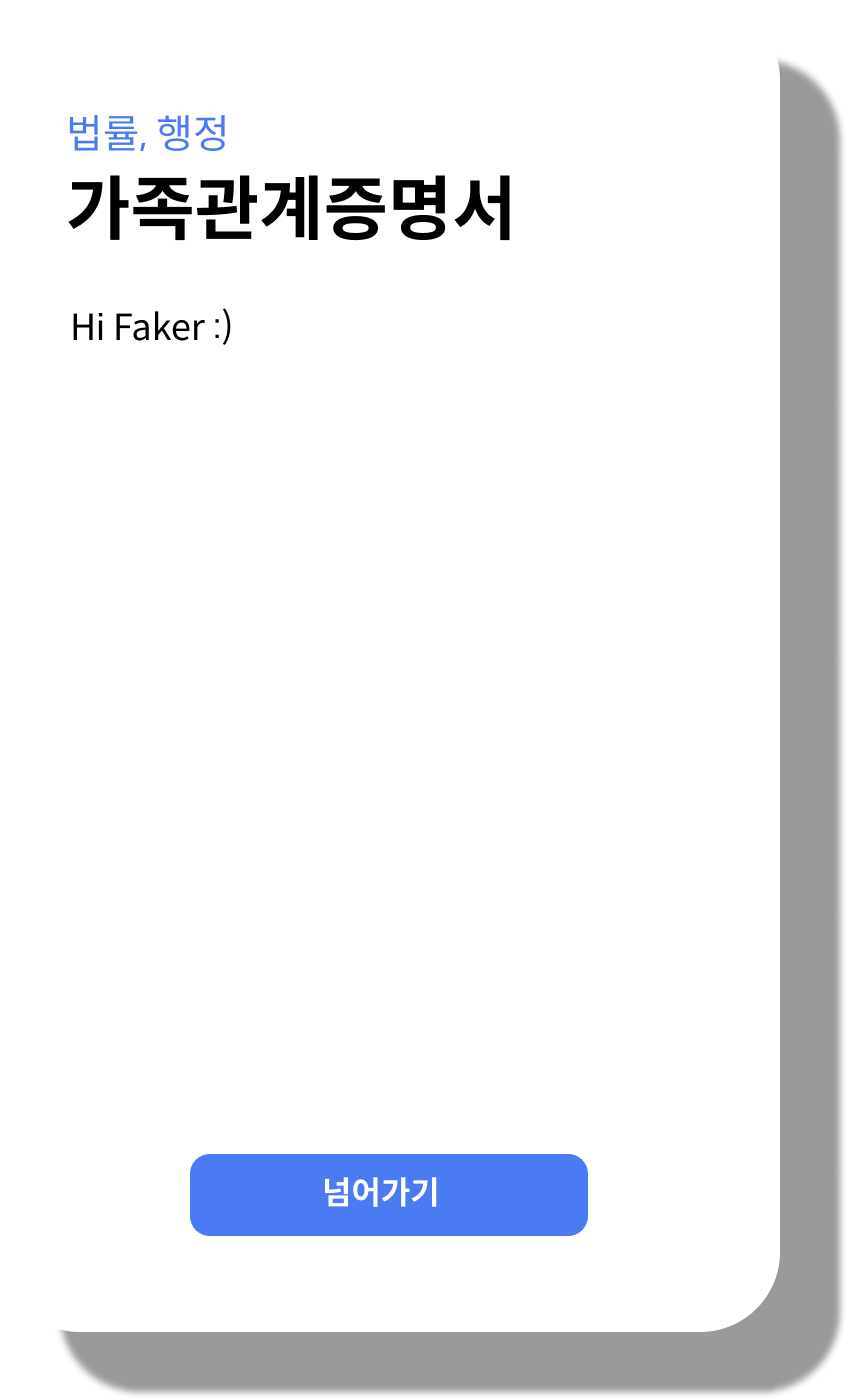
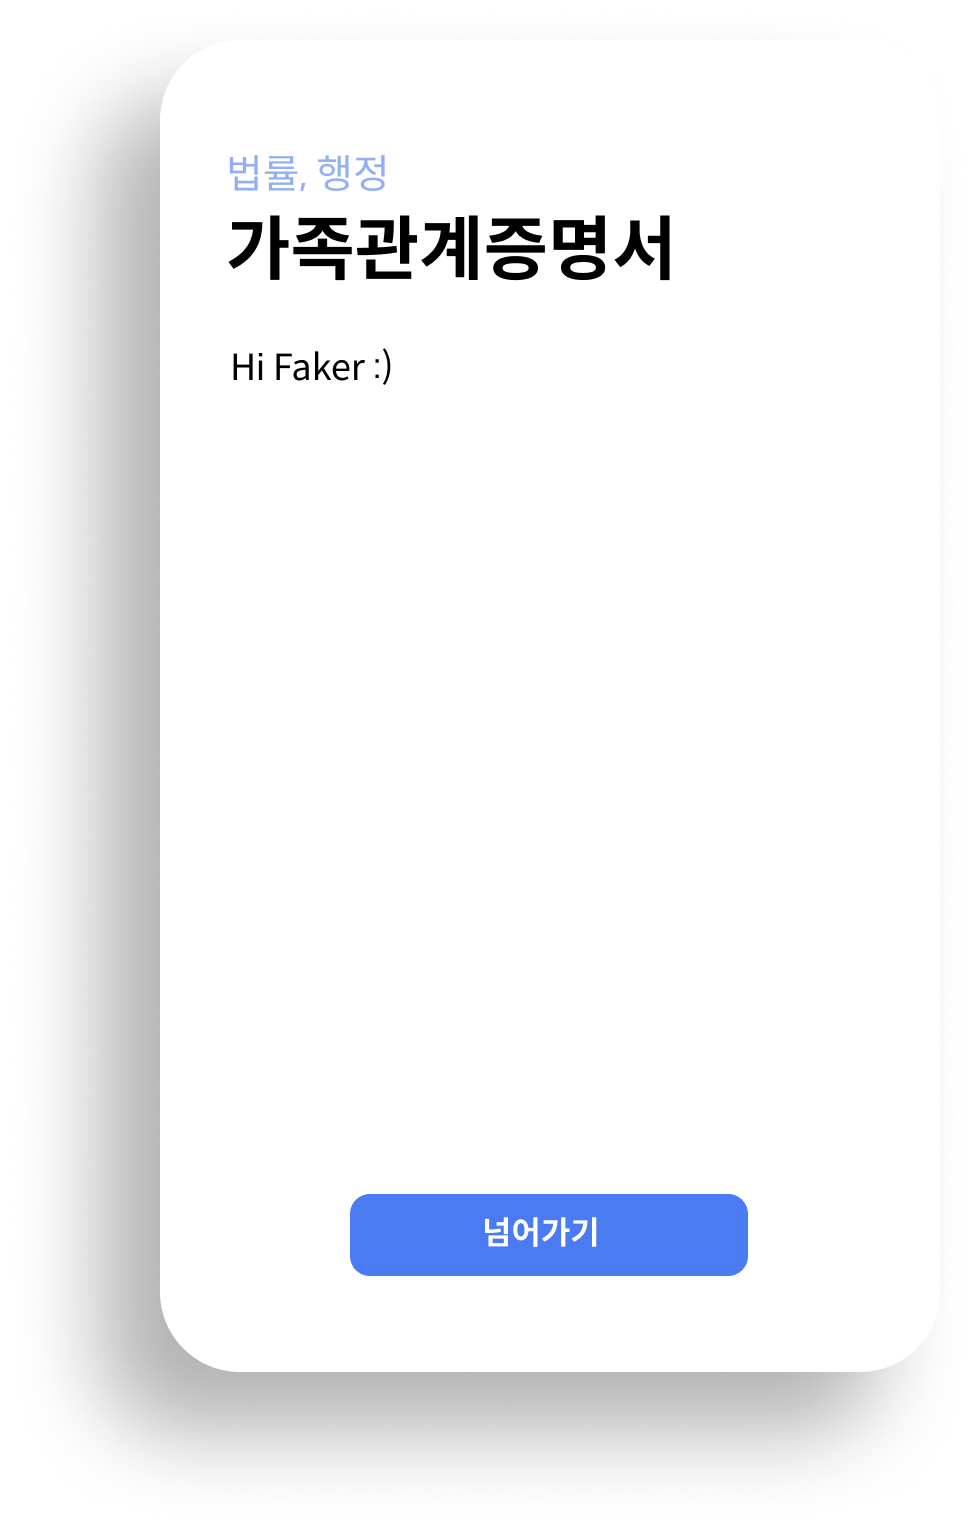
MainHomeDesktop design fix

Changed region(s): [[0.0613, 0.0307, 1.0, 1.0]]

diff --git a/src/Pages/MainHome/MainHomeDesktop.vue b/src/Pages/MainHome/MainHomeDesktop.vue
@@ -1,20 +1,21 @@
 <template>
-  <v-container style="max-width: 2000px">
+  <v-img :src="Banner1Background" cover width="100vw" height="100vh" style="display: flex; align-items: center">
+    <v-container style="max-width: 2000px">
     <v-row justify="space-around">
       <v-scroll-x-transition>
         <div v-show="Transition1">
           <div style="margin-left: 90px">
             <v-row>
-              <text style="font-weight: bold; color: #FFFFFF; font-size: 40px; text-shadow: 0px 0px 1px 1px #000000">서비스를 선택해보세요.</text>
+              <text style="font-family: SpoqaHanSansNeo-thin; color: #2155D6; font-size: 55px">원하는 민원문서,</text>
             </v-row>
-            <v-row>
-              <text style="font-weight: lighter; color: #FFFFFF; font-size: 70px">원하는 민원문서,</text>
-            </v-row>
-            <v-row>
-              <text style="font-weight: lighter; color: #FFFFFF; font-size: 70px">한 곳에서 출력방법을 찾아보세요!</text>
+            <v-row style="margin-top: 0px">
+              <text style="font-family: SpoqaHanSansNeo-bold; color: #000000; font-size: 65px">한 곳에서 출력방법을 찾아보세요!</text>
             </v-row>
           </div>
-          <div style="margin-top: 100px; margin-left: 70px">
+          <div style="margin-top: 120px; margin-left: 70px">
+            <v-row>
+              <text style="font-family: SpoqaHanSansNeo-bold; color: #525252; font-size: 20px; margin-left: 20px; margin-bottom: 20px; text-shadow: 0px 0px 1px 1px #000000">서비스를 선택해보세요.</text>
+            </v-row>
             <v-row justify="start">
               <v-hover v-slot="{isHovering, props}">
                 <v-card v-bind="props" elevation="0" :style="CardStyle(isHovering)" @click="GotoAllDocuments()">
@@ -96,11 +97,12 @@
       </v-scroll-x-transition>
       <v-scroll-x-reverse-transition>
         <div v-show="Transition1" style="display: flex; align-items: center">
-          <v-img :src="DesktopBanner1" style="width: 300px; margin-right: 90px"/>
+          <v-img :src="DesktopBanner1" style="width: 320px; margin-right: 90px"/>
         </div>
       </v-scroll-x-reverse-transition>
     </v-row>
   </v-container>
+  </v-img>
 </template>
 
 <script>
@@ -111,6 +113,7 @@ export default {
   data(){
     return {
       DesktopBanner1: new URL('../../assets/DesktopBanner1.png', import.meta.url).href,
+      Banner1Background: new URL('../../assets/Banner1Background.png', import.meta.url).href,
       Transition1: false,
       Title:
           ['법률, 행정',
@@ -135,15 +138,15 @@ export default {
         display: "flex",
         width: "180px",
         height: "100px",
-        borderRadius: "15px",
+        borderRadius: "20px",
         backgroundColor: "#FFFFFF",
-        marginLeft: "20px"
+        marginLeft: "20px",
       }
     },
     CardTitleStyle(isHovering) {
       return {
         transition: "all .1s ease-in-out",
-        fontWeight: "bold",
+        fontFamily: "SpoqaHanSansNeo-bold",
         fontSize: "20px",
         margin: "auto",
         color: isHovering ? "#00A4FF" : "#2155D6",
@@ -151,7 +154,7 @@ export default {
     },
     CardSubtitleStyle() {
       return {
-        fontWeight: "normal",
+        fontFamily: "SpoqaHanSansNeo-light",
         fontSize: "10px",
         color: "#808080",
         margin: "auto",
@@ -166,10 +169,3 @@ export default {
   }
 }
 </script>
-
-<style>
-@font-face {
-  font-family: 'SpoqaHanSansNeo-Regular';
-  src: url('https://fastly.jsdelivr.net/gh/projectnoonnu/noonfonts_2108@1.1/SpoqaHanSansNeo-Regular.woff') format('woff');
-}
-</style>

diff --git a/src/components/MainHomeHeader/MainHomeHeader1400px.vue b/src/components/MainHomeHeader/MainHomeHeader1400px.vue
@@ -1,11 +1,11 @@
 <template>
-  <v-app-bar elevation="0" style="position: fixed; padding: calc(env(safe-area-inset-top) + 10px); background-color: #FFFFFF; display: flex; justify-content: center">
+  <v-app-bar elevation="0" style="position: fixed; padding: calc(env(safe-area-inset-top) + 10px); background-color: #FFFFFF; display: flex; justify-content: center; border-bottom: 1px solid #EBEDF1">
     <v-toolbar elevation="0" style="max-width: 2000px; margin: auto; background-color: transparent">
       <text>
         <v-img :src="BarLogo" style="width: 130px; margin-left: 40px"/>
       </text>
       <div style="width: 400px">
-        <v-text-field class="MainSearch1400" placeholder="원하는 서류를 검색해보세요" prepend-inner-icon="mdi-magnify" variant="outlined" bg-color="#F8FAFF" base-color="#F8FAFF" hide-details density="comfortable" clearable rounded style="margin-left: 40px"/>
+        <v-text-field class="MainSearch1400" placeholder="원하는 서류를 검색해보세요" prepend-inner-icon="mdi-magnify" variant="outlined" bg-color="#F8FAFF" base-color="#F8FAFF" hide-details density="comfortable" clearable rounded style="font-family: SpoqaHanSansNeo-Regular; margin-left: 40px"/>
       </div>
     </v-toolbar>
   </v-app-bar>

diff --git a/src/Pages/MainHome/MainHome.vue b/src/Pages/MainHome/MainHome.vue
@@ -13,7 +13,7 @@
     <MainHomeHeader1400px/>
     <MainHome1400px/>
   </v-main>
-  <v-main v-else style="background-color: #4B7BF2; display: flex; align-items: center">
+  <v-main v-else>
     <MainHomeHeader1400px/>
     <MainHomeDesktop/>
   </v-main>
